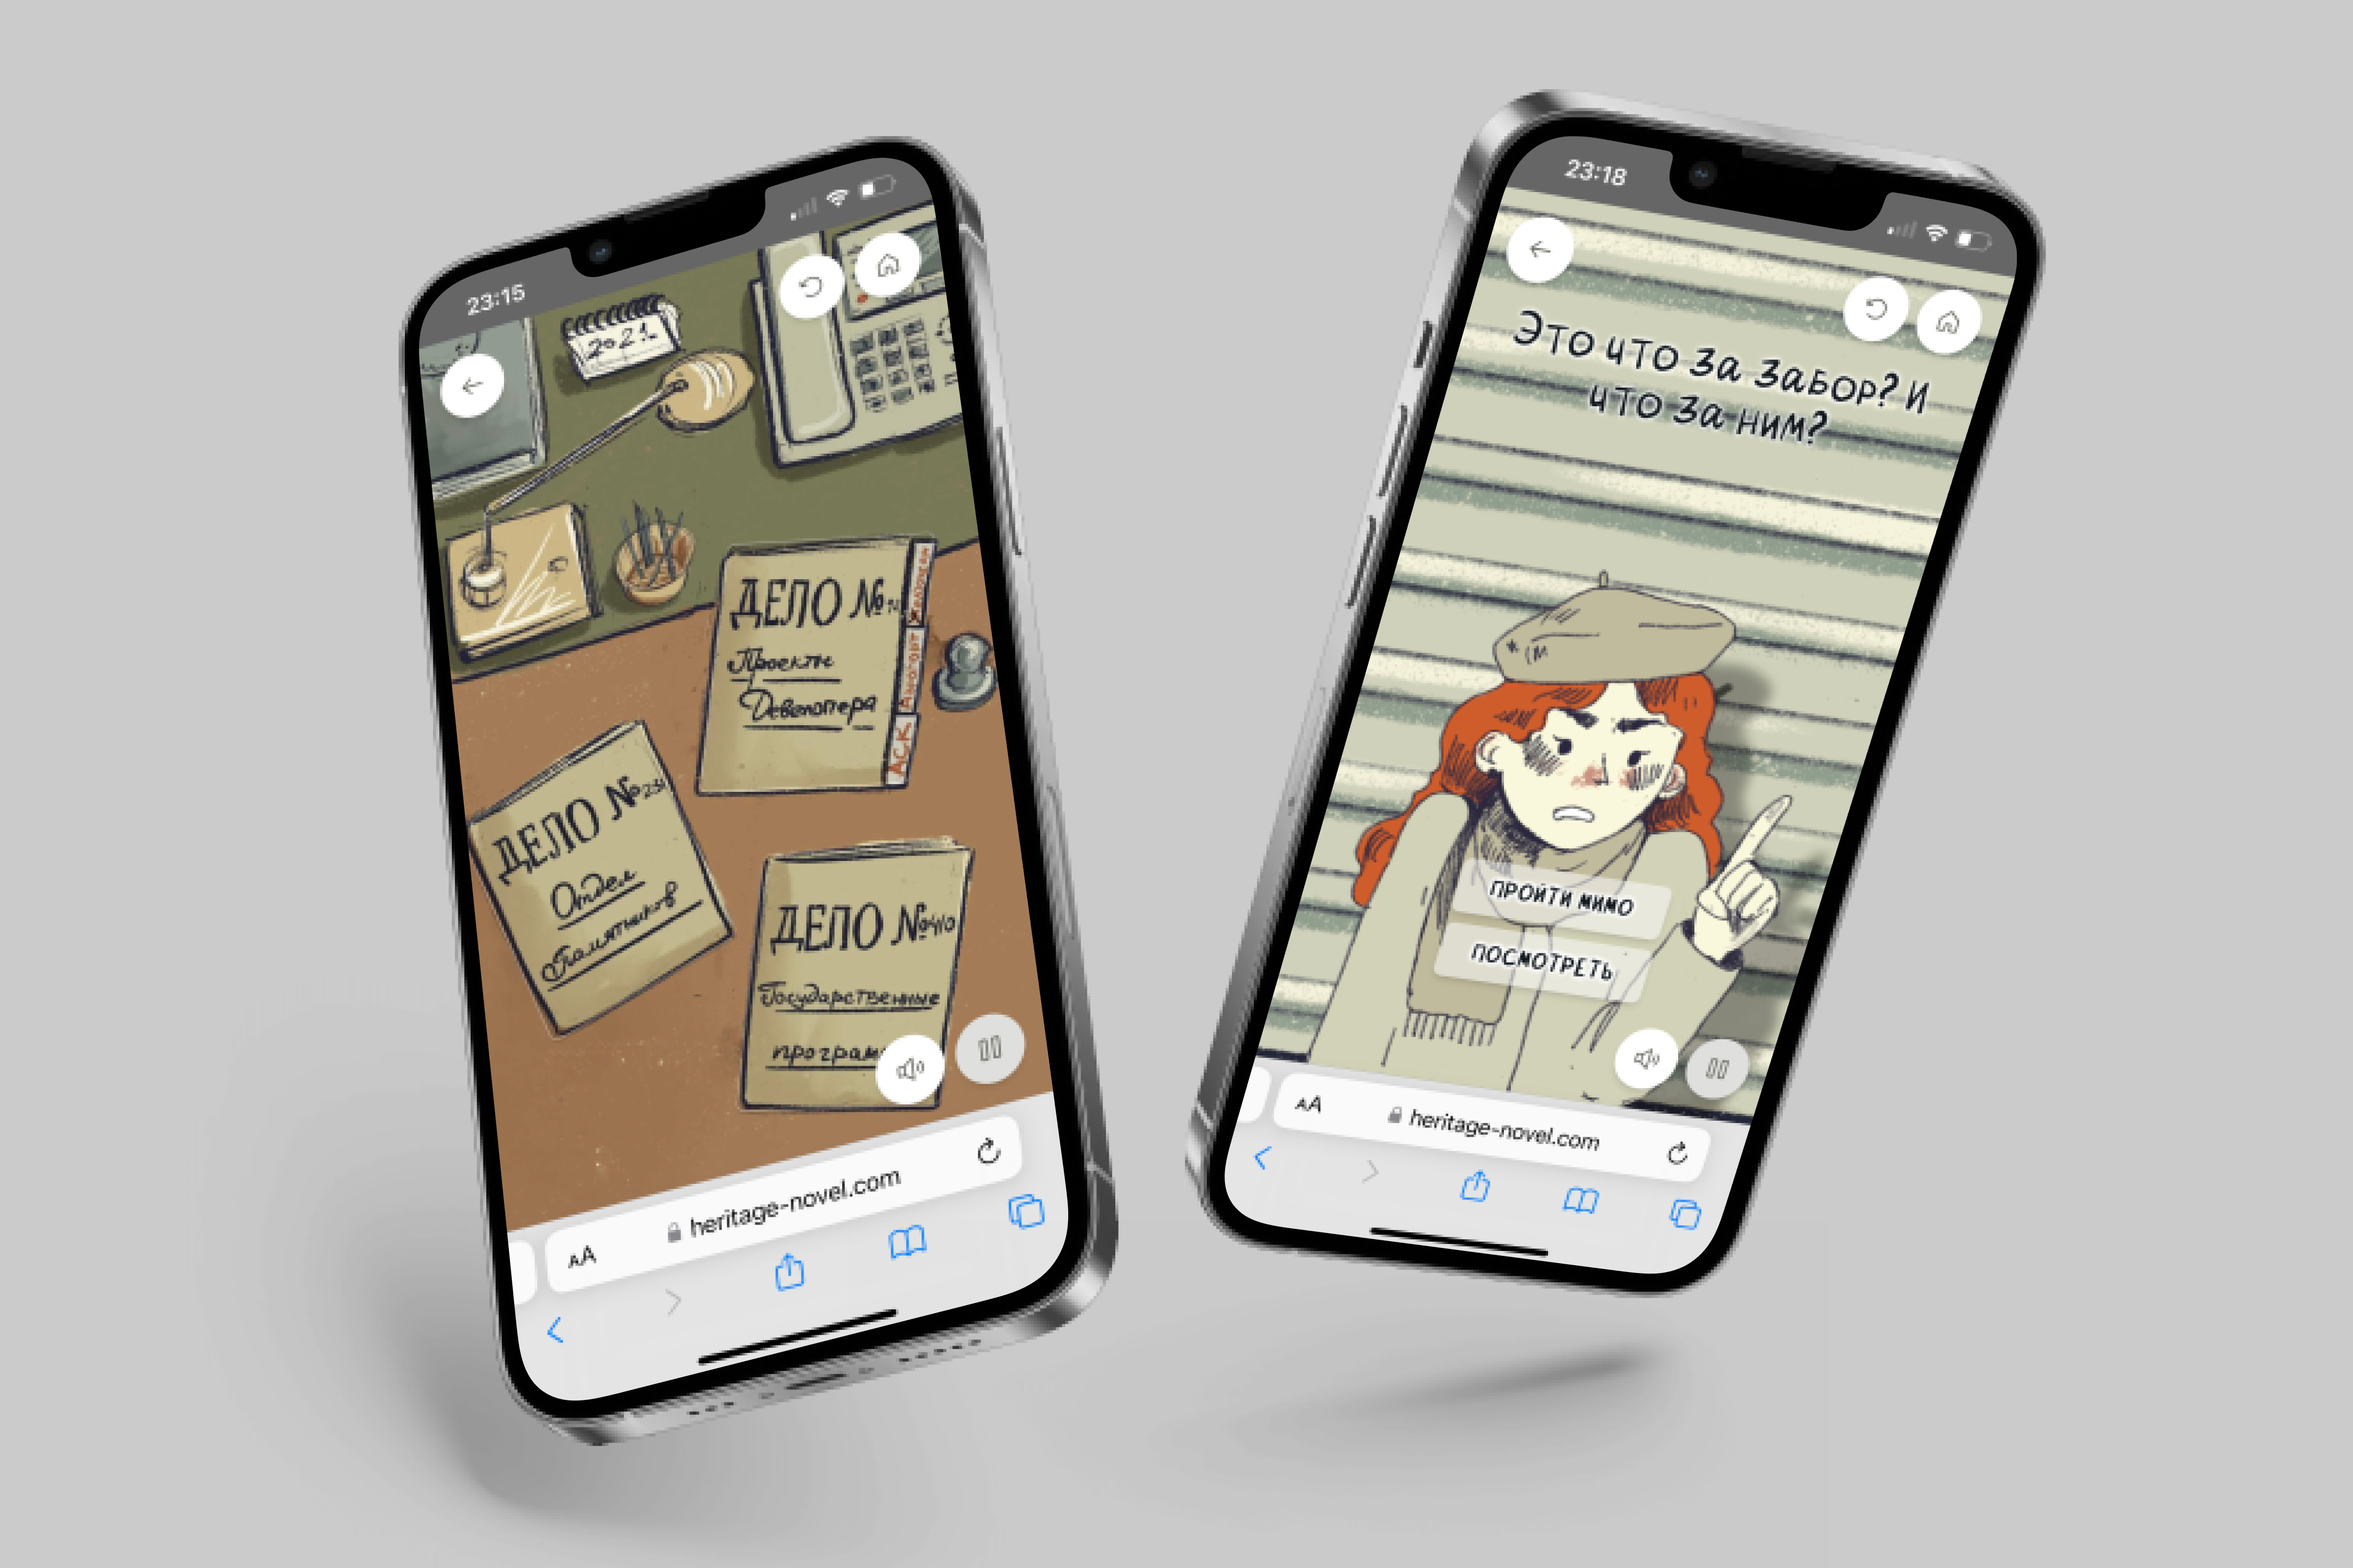
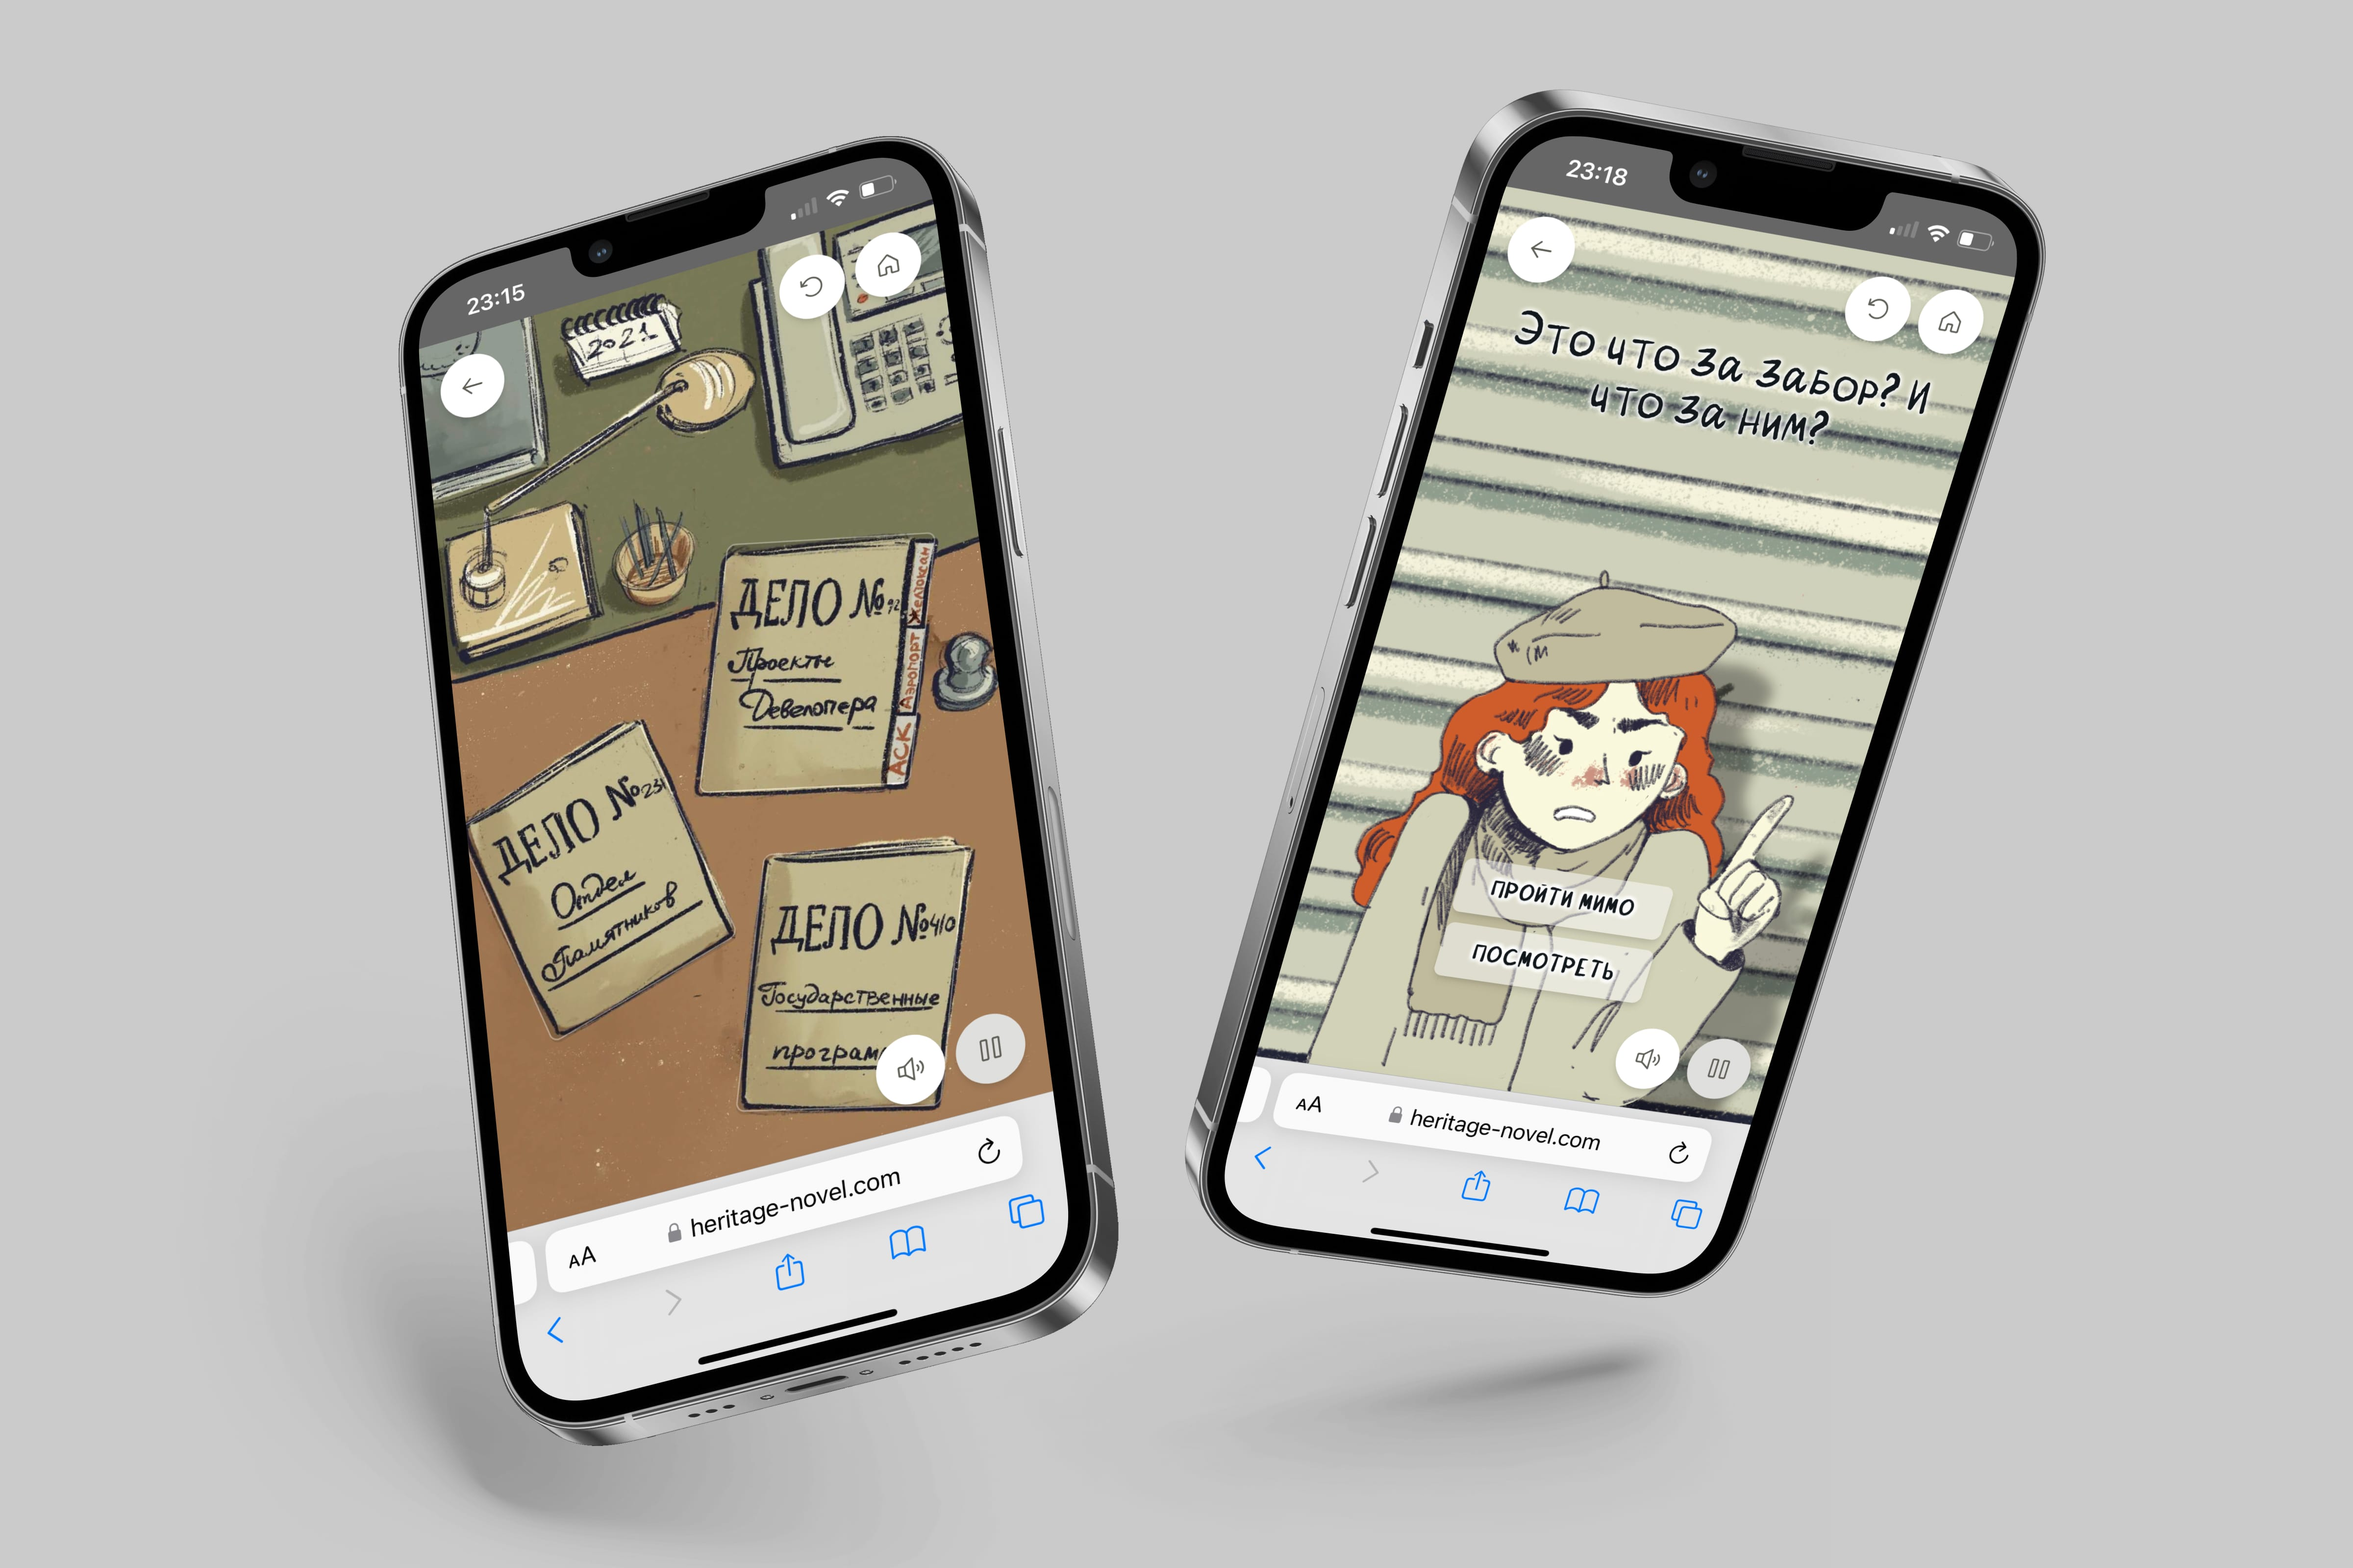
Improve image rendering via mdx plugin

diff --git a/contentlayer.config.js b/contentlayer.config.js
@@ -1,4 +1,8 @@
 import {defineDocumentType, makeSource} from 'contentlayer/source-files'
+import {fromJs} from 'esast-util-from-js'
+import {stringify} from 'javascript-stringify'
+import {getPlaiceholder} from 'plaiceholder'
+import {visit} from 'unist-util-visit'
 
 export const Project = defineDocumentType(() => ({
   name: 'Project',
@@ -32,4 +36,95 @@ export const Project = defineDocumentType(() => ({
 export default makeSource({
   contentDirPath: 'projects',
   documentTypes: [Project],
+  mdx: {
+    remarkPlugins: [
+      () => async (tree) => {
+        /** @type {Promise<void>[]} */
+        const promises = []
+        visit(
+          tree,
+          {type: 'paragraph'},
+          /**
+           * @param {import('mdast').Paragraph} paragraphNode
+           * @param {number | null} index
+           * @param {import('unist').Parent | null} parentNode
+           */
+          (paragraphNode, index, parentNode) => {
+            if (index == null || !parentNode) {
+              return
+            }
+            const imageNode =
+              paragraphNode.children.length === 1 &&
+              paragraphNode.children[0].type === 'image'
+                ? paragraphNode.children[0]
+                : null
+            if (!imageNode) {
+              return
+            }
+            /** @type {Promise<void>} */
+            const promise = new Promise(async (resolve) => {
+              const {img: src, svg} = await getPlaiceholder(imageNode.url, {
+                size: 8,
+              })
+              const srcCode = `(${stringify(src)})`
+              const svgCode = `(${stringify(svg)})`
+              /** @type {import('mdast-util-mdx-jsx').MdxJsxFlowElement} */
+              const newNode = {
+                type: 'mdxJsxFlowElement',
+                name: 'EnhancedImage',
+                attributes: [
+                  /** @type {import('mdast-util-mdx-jsx').MdxJsxAttribute} */
+                  ({
+                    type: 'mdxJsxAttribute',
+                    name: 'src',
+                    value: {
+                      type: 'mdxJsxAttributeValueExpression',
+                      value: srcCode,
+                      data: {
+                        estree: fromJs(srcCode),
+                      },
+                    },
+                  }),
+                  /** @type {import('mdast-util-mdx-jsx').MdxJsxAttribute} */ ({
+                    type: 'mdxJsxAttribute',
+                    name: 'svg',
+                    value: {
+                      type: 'mdxJsxAttributeValueExpression',
+                      value: svgCode,
+                      data: {
+                        estree: fromJs(svgCode),
+                      },
+                    },
+                  }),
+                  imageNode.alt != null &&
+                    /** @type {import('mdast-util-mdx-jsx').MdxJsxAttribute} */ ({
+                      type: 'mdxJsxAttribute',
+                      name: 'alt',
+                      value: imageNode.alt,
+                    }),
+                  imageNode.title != null &&
+                    /** @type {import('mdast-util-mdx-jsx').MdxJsxAttribute} */ ({
+                      type: 'mdxJsxAttribute',
+                      name: 'title',
+                      value: imageNode.title,
+                    }),
+                ].filter(
+                  /** @type {<T>(a: T | false) => a is T} */
+                  (a) => a !== false,
+                ),
+                children: [],
+                data: {
+                  _mdxExplicitJsx: true,
+                },
+              }
+              parentNode.children.splice(index, 1, newNode)
+              resolve()
+            })
+            promises.push(promise)
+          },
+        )
+        await Promise.all(promises)
+      },
+    ],
+  },
 })

diff --git a/pages/index.tsx b/pages/index.tsx
@@ -1,21 +1,19 @@
 import Layout from 'components/Layout'
 import {UnderConstruction} from 'components/UnderConstruction'
 import {allProjects} from 'contentlayer/generated'
+import {EnhancedImage} from 'lib/components/EnhancedImage'
 import type {InferGetStaticPropsType} from 'next'
-import Image from 'next/future/image'
 import Link from 'next/link'
 import {getPlaiceholder} from 'plaiceholder'
 
 export async function getStaticProps() {
   const projects = await Promise.all(
     allProjects.map(async (p) => {
-      const {base64, img} = await getPlaiceholder(p.coverImageSrc, {size: 8})
+      const {img: src, svg} = await getPlaiceholder(p.coverImageSrc, {size: 8})
       return {
         ...p,
-        coverImageSrc: {
-          ...img,
-          blurDataURL: base64,
-        },
+        coverImageSrc: src,
+        coverImageSvg: svg,
       }
     }),
   )
@@ -42,11 +40,11 @@ export default function Index({
         {projects.map((p) => (
           <Link key={p.slug} href={`/work/${p.slug}`} className="group">
             <div className="prose prose-no-spacing">
-              <Image
+              <EnhancedImage
                 src={p.coverImageSrc}
+                svg={p.coverImageSvg}
                 alt={`Thumbnail for ${p.title}`}
-                placeholder="blur"
-                className="mb-2 max-w-full rounded-lg"
+                className="mb-2 rounded-lg"
               />
 
               <div>

diff --git a/lib/components/EnhancedImage.tsx b/lib/components/EnhancedImage.tsx
@@ -1,0 +1,45 @@
+import type {ImageProps} from 'next/future/image'
+import Image from 'next/future/image'
+import type {TGetSVGReturn} from 'plaiceholder/dist/svg'
+import React from 'react'
+import {twMerge} from 'tailwind-merge'
+
+export interface EnhancedImageProps extends ImageProps {
+  svg: TGetSVGReturn
+}
+
+export function EnhancedImage({
+  svg,
+  className,
+  style,
+  ...restProps
+}: EnhancedImageProps) {
+  return (
+    <figure
+      className={twMerge('relative max-w-full overflow-hidden', className)}
+      style={style}>
+      {React.createElement(
+        svg[0],
+        {
+          ...svg[1],
+          // eslint-disable-next-line @typescript-eslint/no-unsafe-assignment
+          style: {
+            ...svg[1].style,
+            // eslint-disable-next-line @typescript-eslint/no-unsafe-member-access
+            transform: ['scale(1.5)', svg[1].style.transform].join(' '),
+            filter: 'blur(40px)',
+          },
+          className: 'z-[-10]',
+        },
+        svg[2].map((child) =>
+          React.createElement(child[0], {
+            key: [child[1].x, child[1].y].join(','),
+            ...child[1],
+          }),
+        ),
+      )}
+      {/* eslint-disable-next-line jsx-a11y/alt-text */}
+      <Image className="my-0" {...restProps} />
+    </figure>
+  )
+}

diff --git a/pages/work/[slug].tsx b/pages/work/[slug].tsx
@@ -1,5 +1,6 @@
 import Layout from 'components/Layout'
 import {allProjects} from 'contentlayer/generated'
+import {EnhancedImage} from 'lib/components/EnhancedImage'
 import type {GetStaticPropsContext, InferGetStaticPropsType} from 'next'
 import {useMDXComponent} from 'next-contentlayer/hooks'
 import Head from 'next/head'
@@ -33,7 +34,7 @@ export default function ProjectLayout({
       <article className="prose">
         <small>{project.year}</small>
         <h1>{project.title}</h1>
-        <MDXContent />
+        <MDXContent components={{EnhancedImage}} />
       </article>
     </Layout>
   )

diff --git a/components/Layout.tsx b/components/Layout.tsx
@@ -15,7 +15,7 @@ export default function Layout({children}: {children: React.ReactNode}) {
   }
   return (
     <>
-      <header className="sticky top-0 grid grid-cols-1 items-center gap-1 bg-background p-2 md:grid-cols-2 md:gap-2">
+      <header className="sticky top-0 z-10 grid grid-cols-1 items-center gap-1 bg-background p-2 md:grid-cols-2 md:gap-2">
         <div>
           <Link
             href="/"

diff --git a/tailwind.config.js b/tailwind.config.js
@@ -26,7 +26,7 @@ const palette = {
  * @type {import('tailwindcss').Config}
  */
 module.exports = {
-  content: ['./{components,pages}/**/*.{ts,tsx}'],
+  content: ['./{components,lib/components,pages}/**/*.{ts,tsx}'],
   theme: {
     extend: {
       colors: palette,
